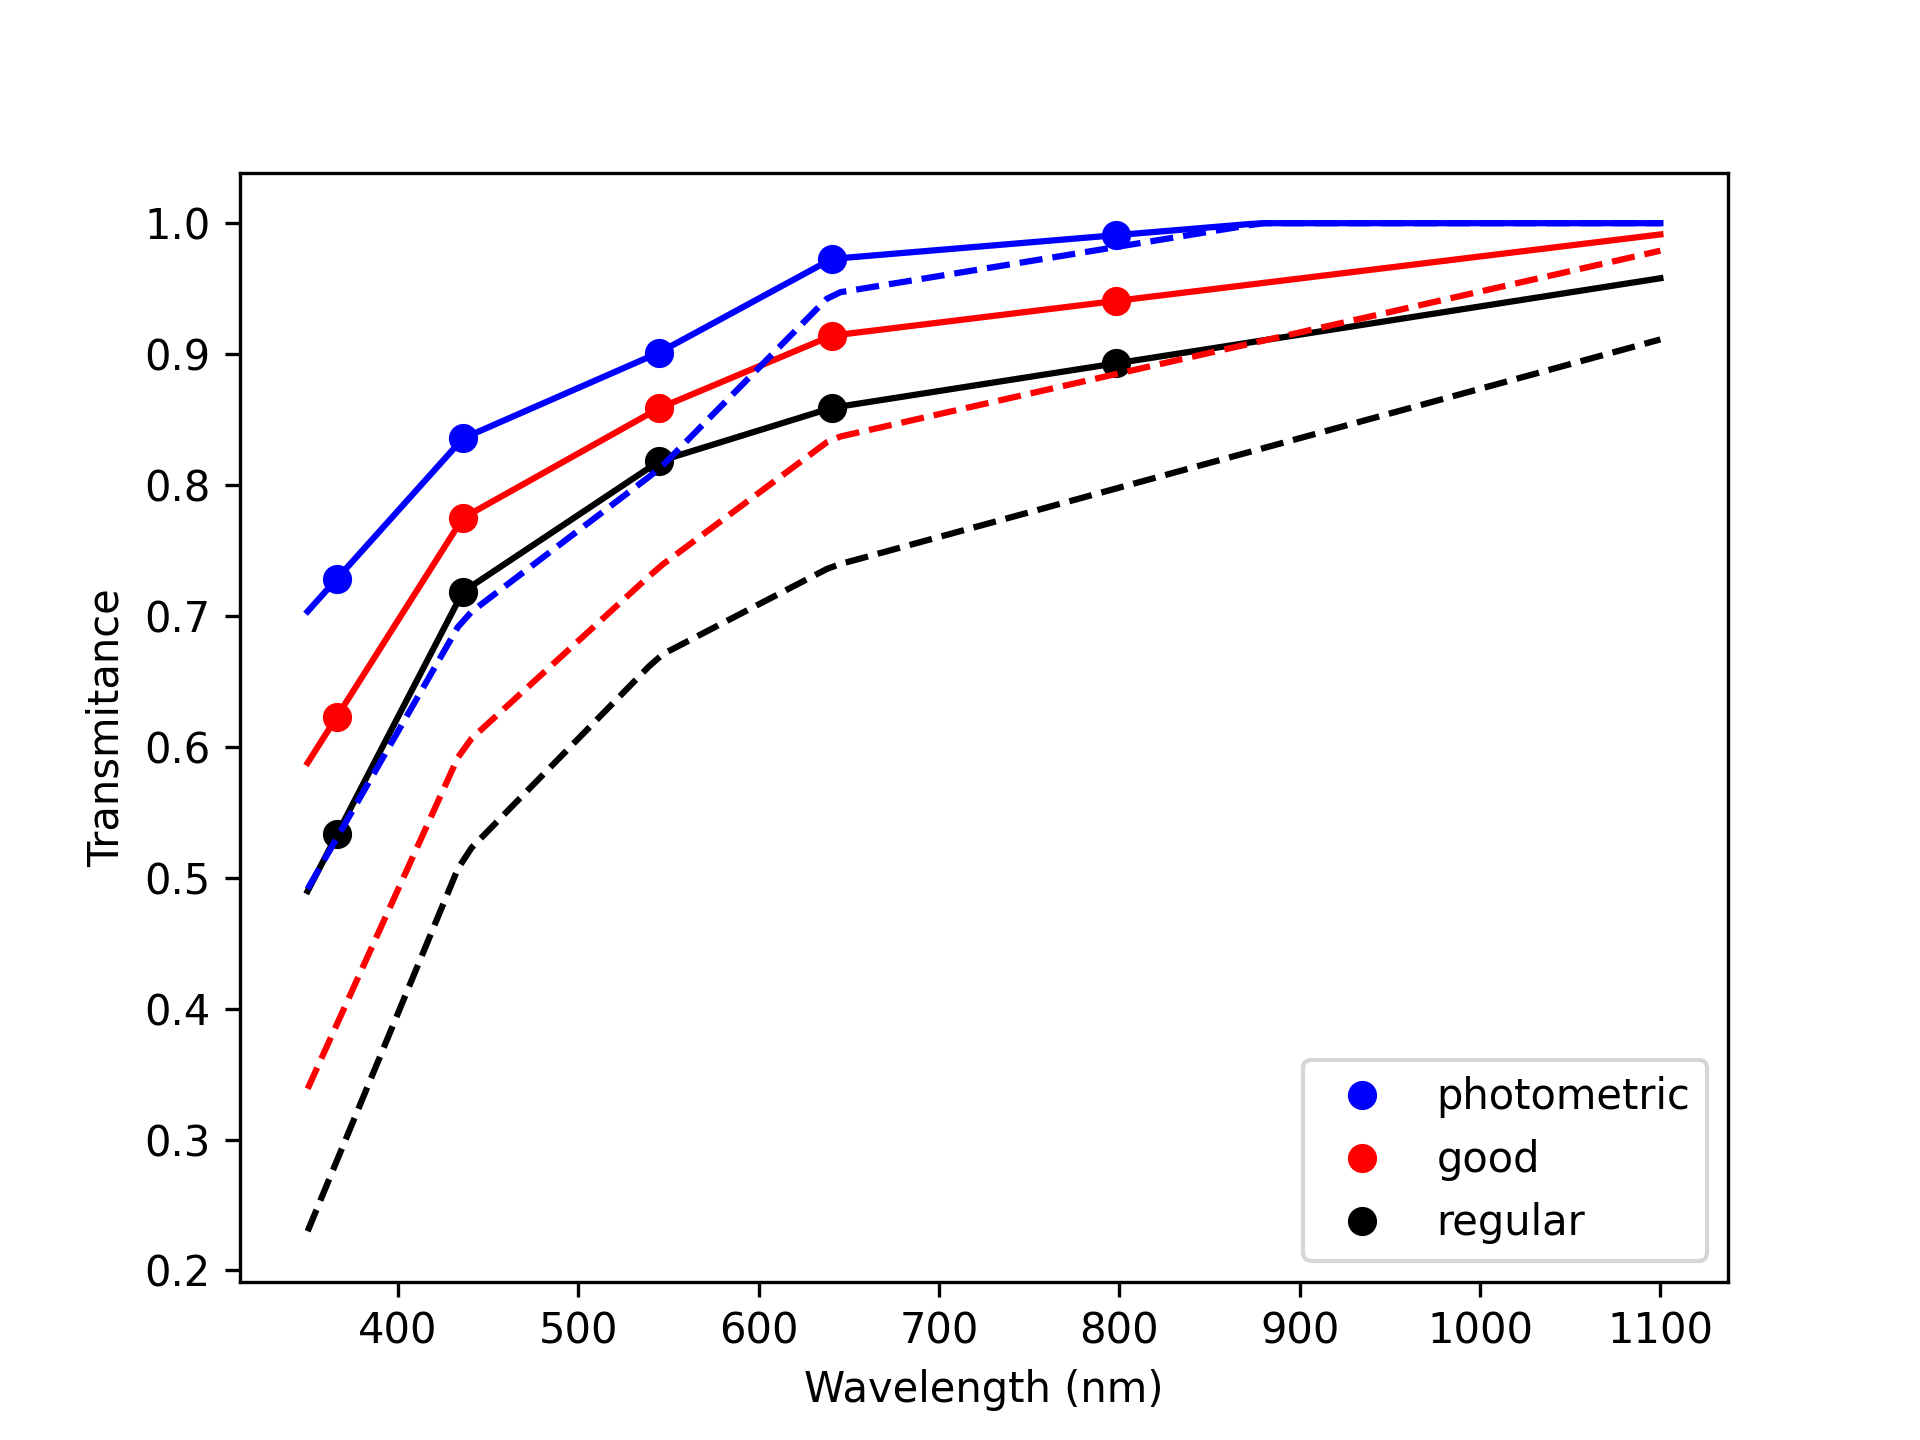
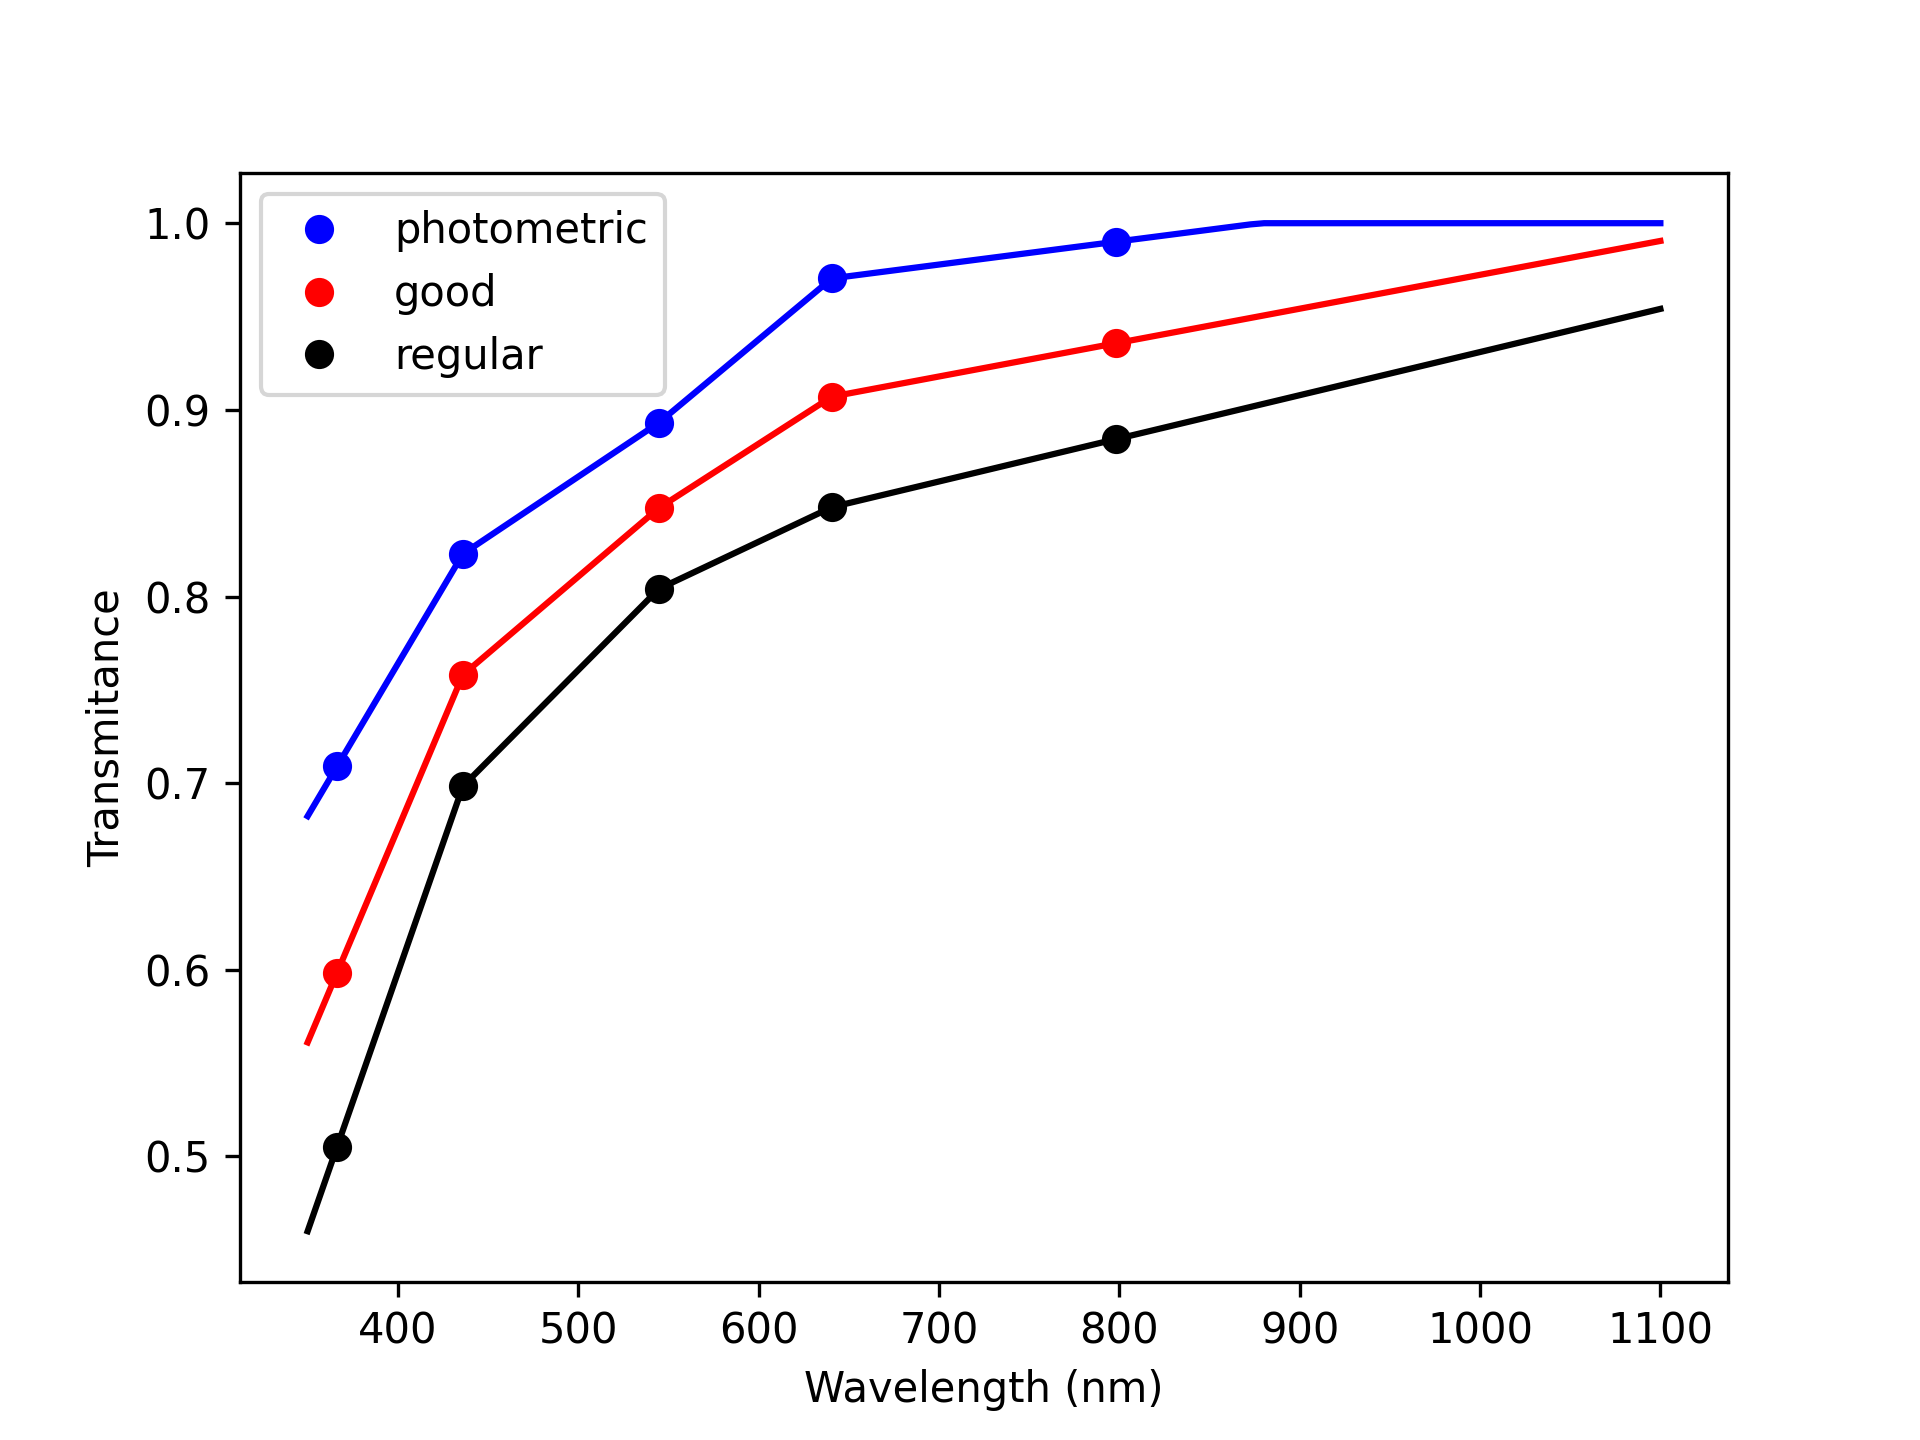
investigating the problem of the sky transparency

diff --git a/scripts/example.py b/scripts/example.py
@@ -17,11 +17,13 @@ ais = Artificial_Image_Simulator(ccd_operation_mode, channel_id=1, ccd_temperatu
 ais.create_source_sed(
     calculation_method="blackbody",
     magnitude=15,
-    wavelength_interval=(400, 1100, 1000),
+    wavelength_interval=(350, 1100, 1000),
     temperature=5700,
 )
 ais.create_sky_sed(moon_phase="new")
-ais.apply_atmosphere_spectral_response()
-ais.apply_telescope_spectral_response()
-ais.apply_sparc4_spectral_response(acquisition_mode="photometry")
-ais.create_artificial_image(image_path="FITS", star_coordinates=(50, 50))
+ais.apply_atmosphere_spectral_response(2, "good")
+# ais.apply_telescope_spectral_response()
+# ais.apply_sparc4_spectral_response(acquisition_mode="photometry")
+ais._integrate_sed()
+print(ais.star_photons_per_second)
+# ais.create_artificial_image(image_path="FITS", star_coordinates=(50, 50))

diff --git a/AIS/Spectral_Response/spectral_response.py b/AIS/Spectral_Response/spectral_response.py
@@ -197,7 +197,7 @@ class Atmosphere(Spectral_Response):
             os.path.join(self.BASE_PATH, self.ATM_EXTINCTION_FILE), dtype=np.float64
         )
         spectral_response = 10 ** (
-            -0.4 * air_mass * ss[sky_condition]
+            -0.43428 * air_mass * ss[sky_condition]
         )  # TODO: olhar isso
         spectral_response = self._interpolate_spectral_response(
             ss["Wavelength (nm)"], spectral_response, obj_wavelength
